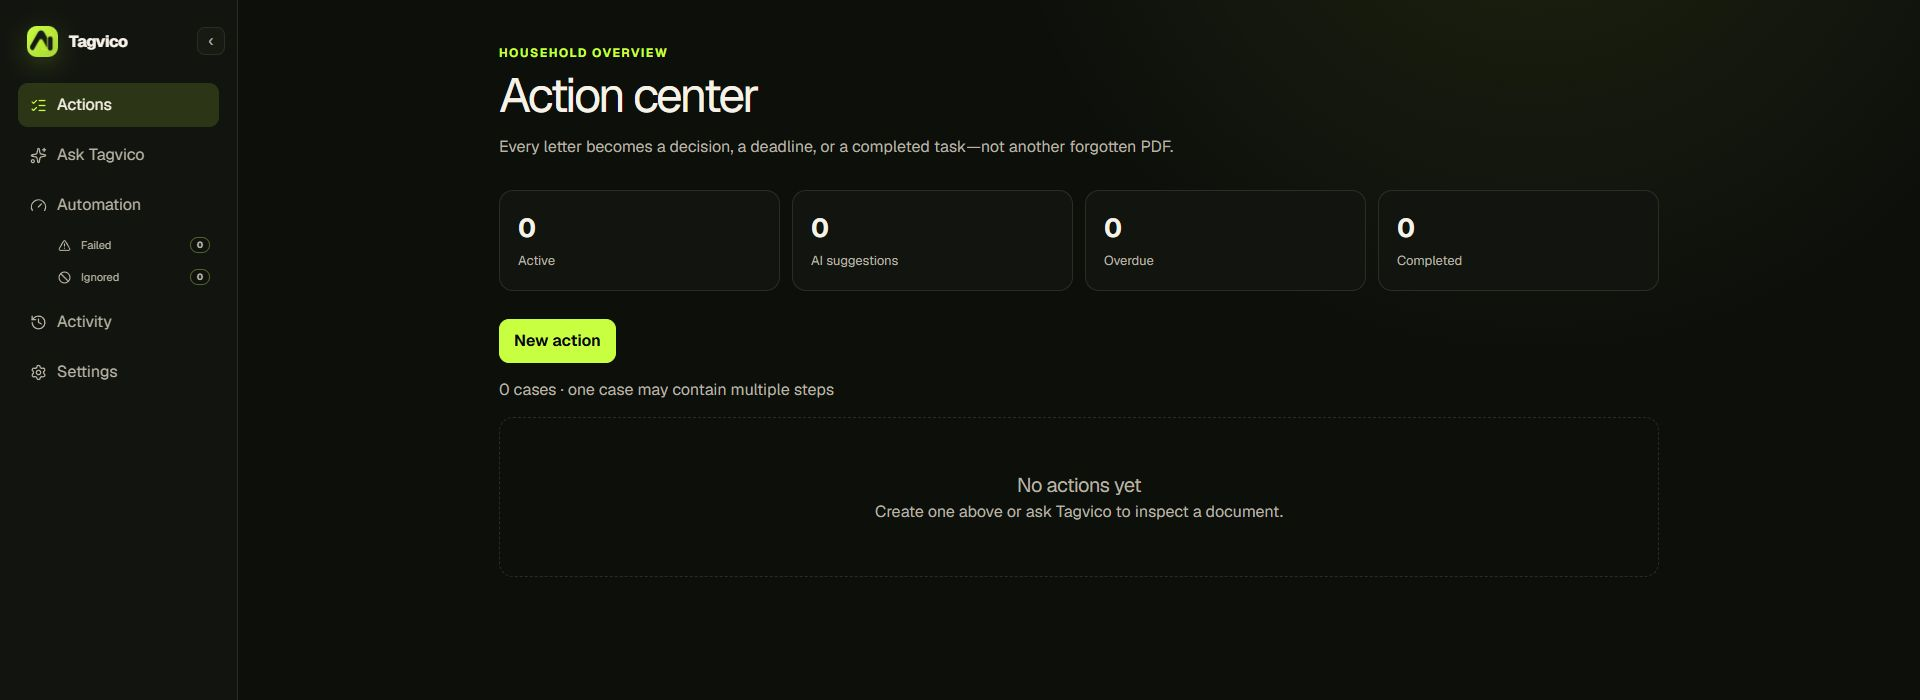
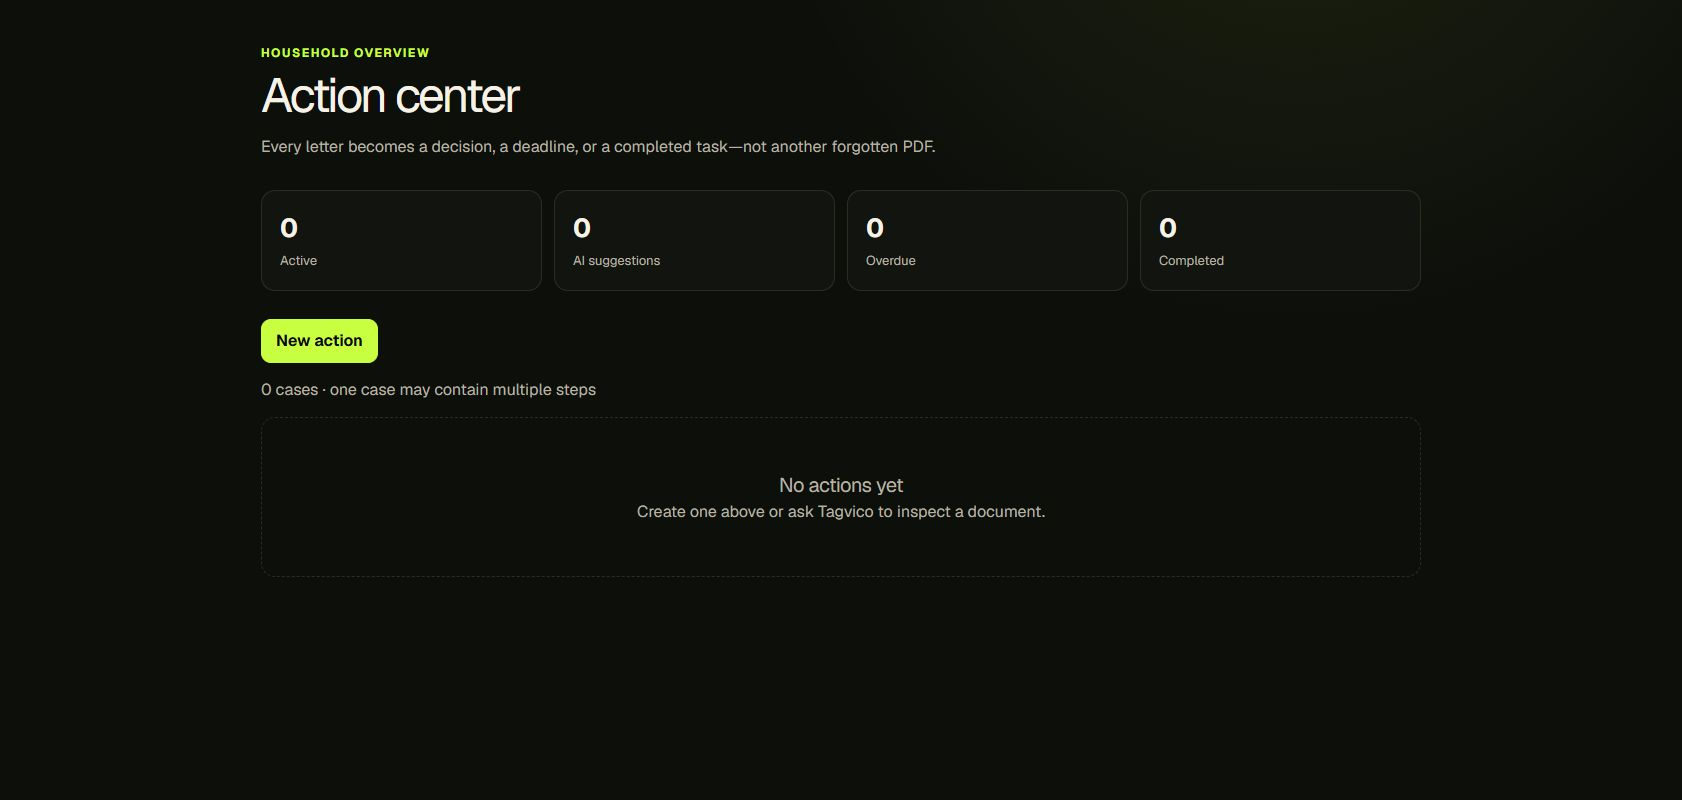
docs: publish current green Tagvico screenshots (#51)
* docs: replace stale purple screenshots with green UI

* docs: use cache-safe green screenshot assets

---------

diff --git a/README.md b/README.md
@@ -17,7 +17,7 @@ record. Reviewable AI metadata automation remains included.
 [![Latest release](https://img.shields.io/github/v/release/arturict/tagvico-ai)](https://github.com/arturict/tagvico-ai/releases)
 [![CI](https://img.shields.io/github/actions/workflow/status/arturict/tagvico-ai/ci.yml?branch=main&label=CI)](https://github.com/arturict/tagvico-ai/actions/workflows/ci.yml)
 
-![Tagvico v3.1.2 Action Center](docs/screenshots/action-center-v3.png)
+![Tagvico v3.1.2 Action Center](docs/screenshots/action-center-green-v3.png)
 
 ## Why Tagvico
 
@@ -48,12 +48,12 @@ which account-scoped model is active, and which vocabulary the model may use.
 <table>
   <tr>
     <td width="50%">
-      <img src="docs/screenshots/ai-models-v3.png" alt="Tagvico v3.1.2 AI model settings showing the supported provider registry">
+      <img src="docs/screenshots/ai-models-green-v3.png" alt="Tagvico v3.1.2 AI model settings showing the supported provider registry">
       <br><strong>Use the provider boundary that fits your archive.</strong><br>
       Live model discovery, write-only credentials, local inference, API providers, ChatGPT subscription, and GitHub Copilot.
     </td>
     <td width="50%">
-      <img src="docs/screenshots/companion-v3.png" alt="Tagvico v3.1.2 persistent Ask Tagvico workspace">
+      <img src="docs/screenshots/companion-green-v3.png" alt="Tagvico v3.1.2 persistent Ask Tagvico workspace">
       <br><strong>Research with a visible approval boundary.</strong><br>
       Persistent chats, a configured model picker, privacy-safe tool activity, and explicit approval before writes.
     </td>

diff --git a/website/versions/v3/features.md b/website/versions/v3/features.md
@@ -16,7 +16,7 @@ Tagvico mirrors its case ID, state, next due date, assignee, and
 `tagvico/action` tag to Paperless. It preserves unrelated tags and custom
 fields. The complete checklist and audit trail remain in Tagvico.
 
-![Tagvico v3.1.2 Action Center in the current green application shell](/screenshots/action-center-v3.png)
+![Tagvico v3.1.2 Action Center in the current green application shell](/screenshots/action-center-green-v3.png)
 
 This v3.1.2 capture comes from the representative release installation and
 contains no document or account data.
@@ -38,7 +38,7 @@ matching document IDs, titles, dates, and result count without exposing OCR.
 Approvals appear only when a proposal is pending, and conversations can be
 created, searched, renamed, switched, and deleted from the chat workspace.
 
-![Tagvico v3.1.2 Ask Tagvico workspace with persistent conversations, approval boundary, composer and configured model](/screenshots/companion-v3.png)
+![Tagvico v3.1.2 Ask Tagvico workspace with persistent conversations, approval boundary, composer and configured model](/screenshots/companion-green-v3.png)
 
 The capture uses a generic greeting only. No document contents, private
 identifiers, credentials, or provider payloads are visible.
@@ -181,7 +181,7 @@ approve/reject cards. Approval uses the same executor and audit trail as web.
 Action Center linking is accepted only when the Telegram entry points at the
 same Paperless instance as the main Tagvico configuration.
 
-![Tagvico v3.1.2 AI model settings with the supported provider registry and write-only credential boundary](/screenshots/ai-models-v3.png)
+![Tagvico v3.1.2 AI model settings with the supported provider registry and write-only credential boundary](/screenshots/ai-models-green-v3.png)
 
 This capture shows provider names and product copy only. No API key, account
 identifier, private endpoint, or signed-in profile is exposed.